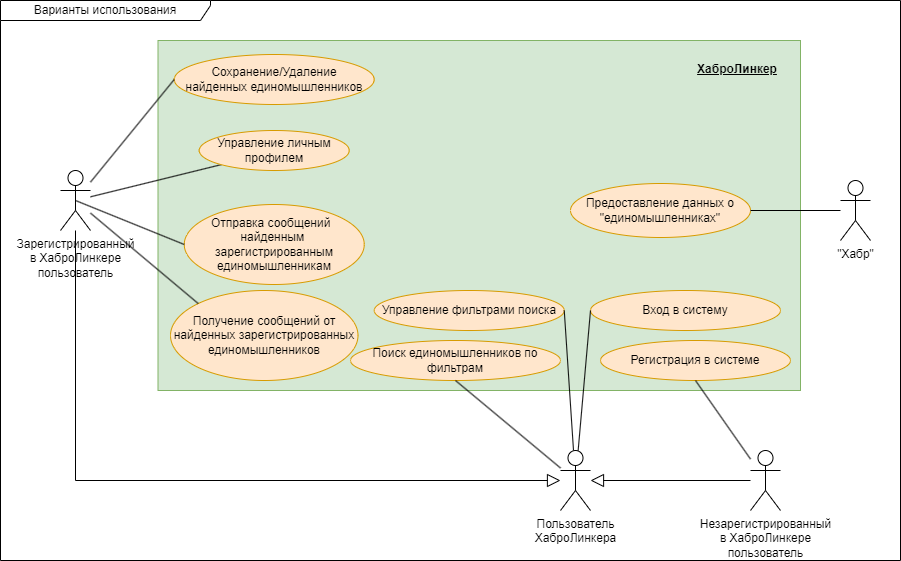
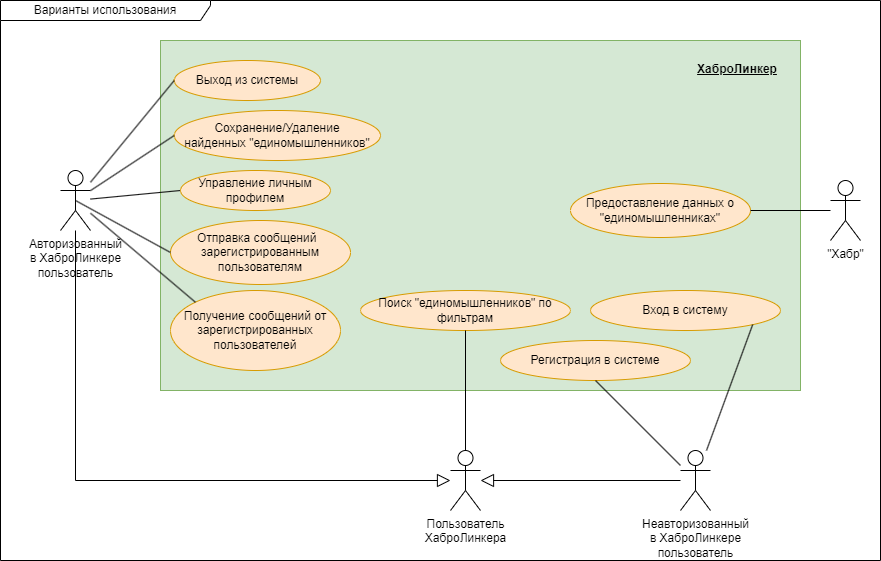
Fixed buisness requirements

diff --git a/docs/business_requirements.md b/docs/business_requirements.md
@@ -1,38 +1,45 @@
 # Бизнес-требования
 
-Разрабатываемый проект предназначен для упрощения поиска единомышленников, заинтересованных в реализации различных IT-проектов (далее - Система).
+Разрабатываемый проект предназначен для упрощения поиска "единомышленников", заинтересованных в реализации различных IT-проектов.
+
+## Термины
+
+Вводится следующий список терминов:
+- Система - разрабатываемый проект "Хабролинкер";
+- "Единомышленник" - любой человек, информация о котором сохранена в системе для вывода в поиске. Информация о нём может быть получена как в результате регистрации в Системе, так и через внешних источников ("Хабр").
 
 ## Действующие лица
 
 С системой взаимодействуют следующие действующие лица:
 - "Хабр" - одноименный крупный в рунете веб-сайт, посвященный IT тематике и содержащий различную информацию о своих пользователях;
-- Пользователь ХаброЛинкера - в целом любой человек, взаимодействующий с Системой;
-- Незарегистрированный пользователь ХаброЛинкера - Пользователь ХаброЛинкера, который не имеет учётную запись в Системе;
-- Зарегистрированный пользователь ХаброЛинкера - Пользователь ХаброЛинкера, который имеет учётную запись в Системе.
+- Пользователь ХаброЛинкера - любой человек, взаимодействующий с Системой;
+- Неавторизованный пользователь ХаброЛинкера - Пользователь ХаброЛинкера, который не выполнил вход в учётную запись в Системе;
+- Авторизованный пользователь ХаброЛинкера - Пользователь ХаброЛинкера, который выполнил вход в учётную запись в Системе.
 
 ## Варианты использования
 
 Варианты использования - высокоуровневые сценарии, описывающие задачи, которые выполняет система и действующие лица, которые в этих сценариях участвуют.
 
 **"Хабр"**
-- Предоставляет данные о единомышленниках, зарегистрированных на сайте Хабр.
+- Предоставляет данные о "единомышленниках", зарегистрированных на сайте "Хабр".
 
 **Пользователь ХаброЛинкера**
-- Управление фильтрами поиска (выбор специализации единомышленников, опыта работы и тд) и поиск единомышленников по этим фильтрам.
+- Поиск "единомышленников" по фильтрам.
 
-**Незарегистрированный пользователь ХаброЛинкера**
-- Регистрация в Системе.
+**Неавторизованный пользователь ХаброЛинкера**
+- Регистрация в Системе;
+- Вход в Систему.
 
-**Зарегистрированный пользователь ХаброЛинкера**
+**Авторизованный пользователь ХаброЛинкера**
 - Управление данными личного профиля.
-- Управление единомышленниками найденных по определенным фильтрам поиска:
+- Управление найденными "единомышленниками":
   - Сохранение;
   - Просмотр;
   - Удаление.
-- Коммуникация с единомышленниками:
+- Коммуникация с "единомышленниками":
     - Получение сообщений;
-    - Просмотр диалога;
     - Отправка сообщений.
+- Выход из Системы.
 
 Диаграмма вариантов использования приведены на следующем рисунке.
 
